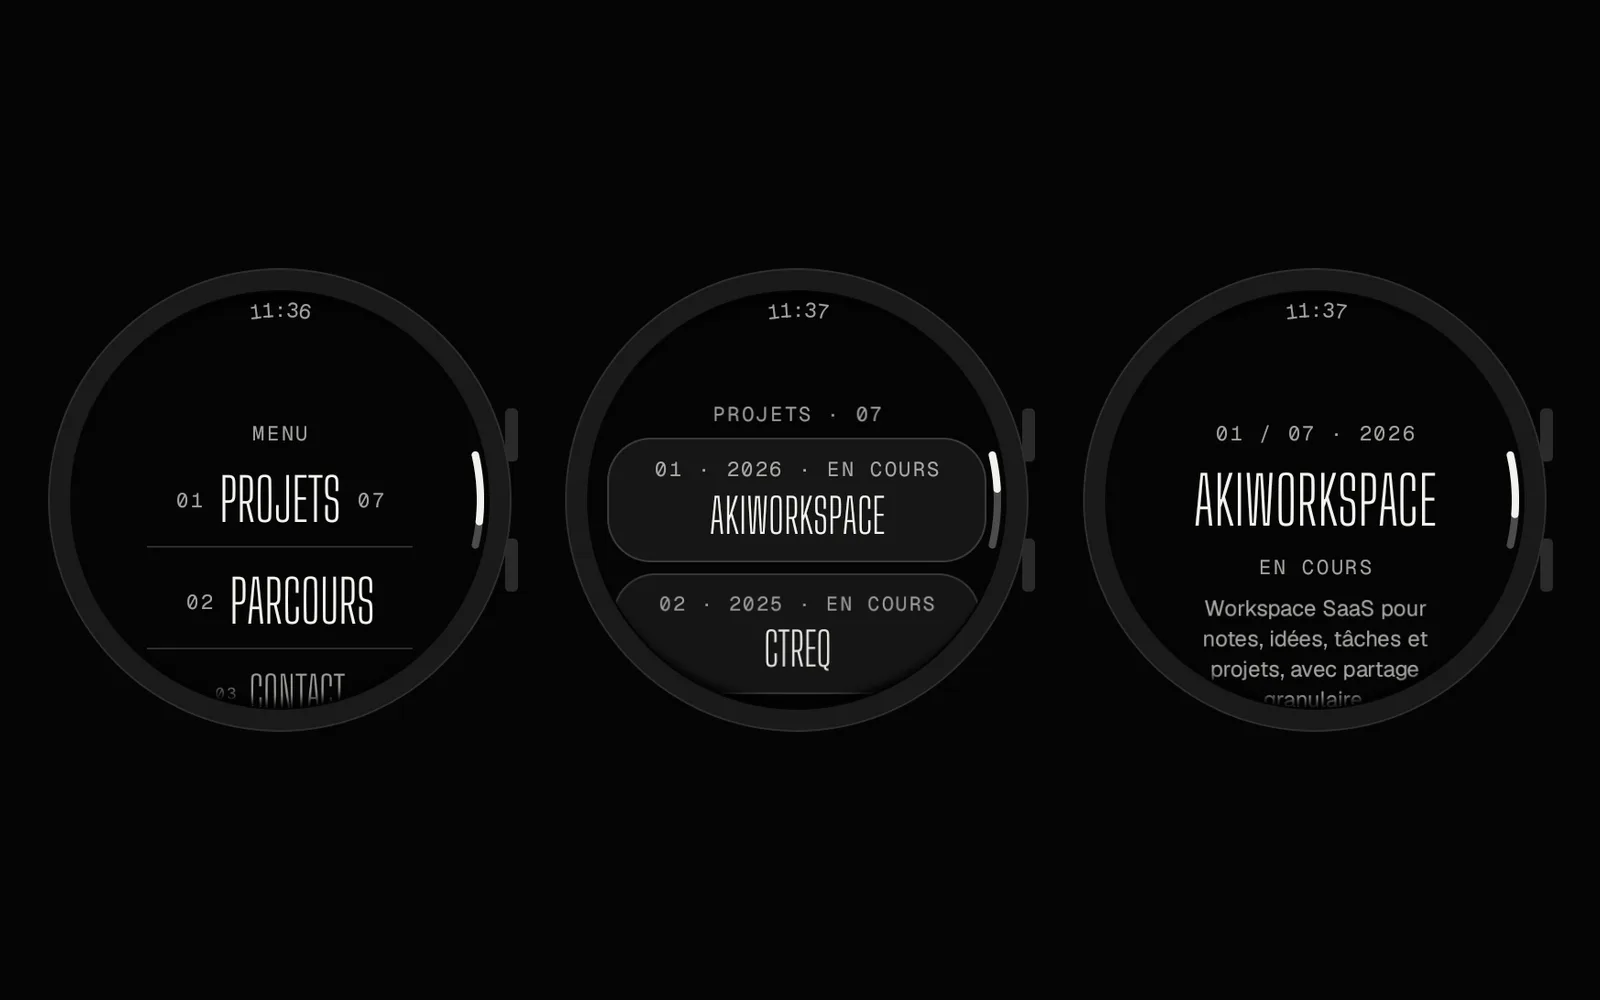
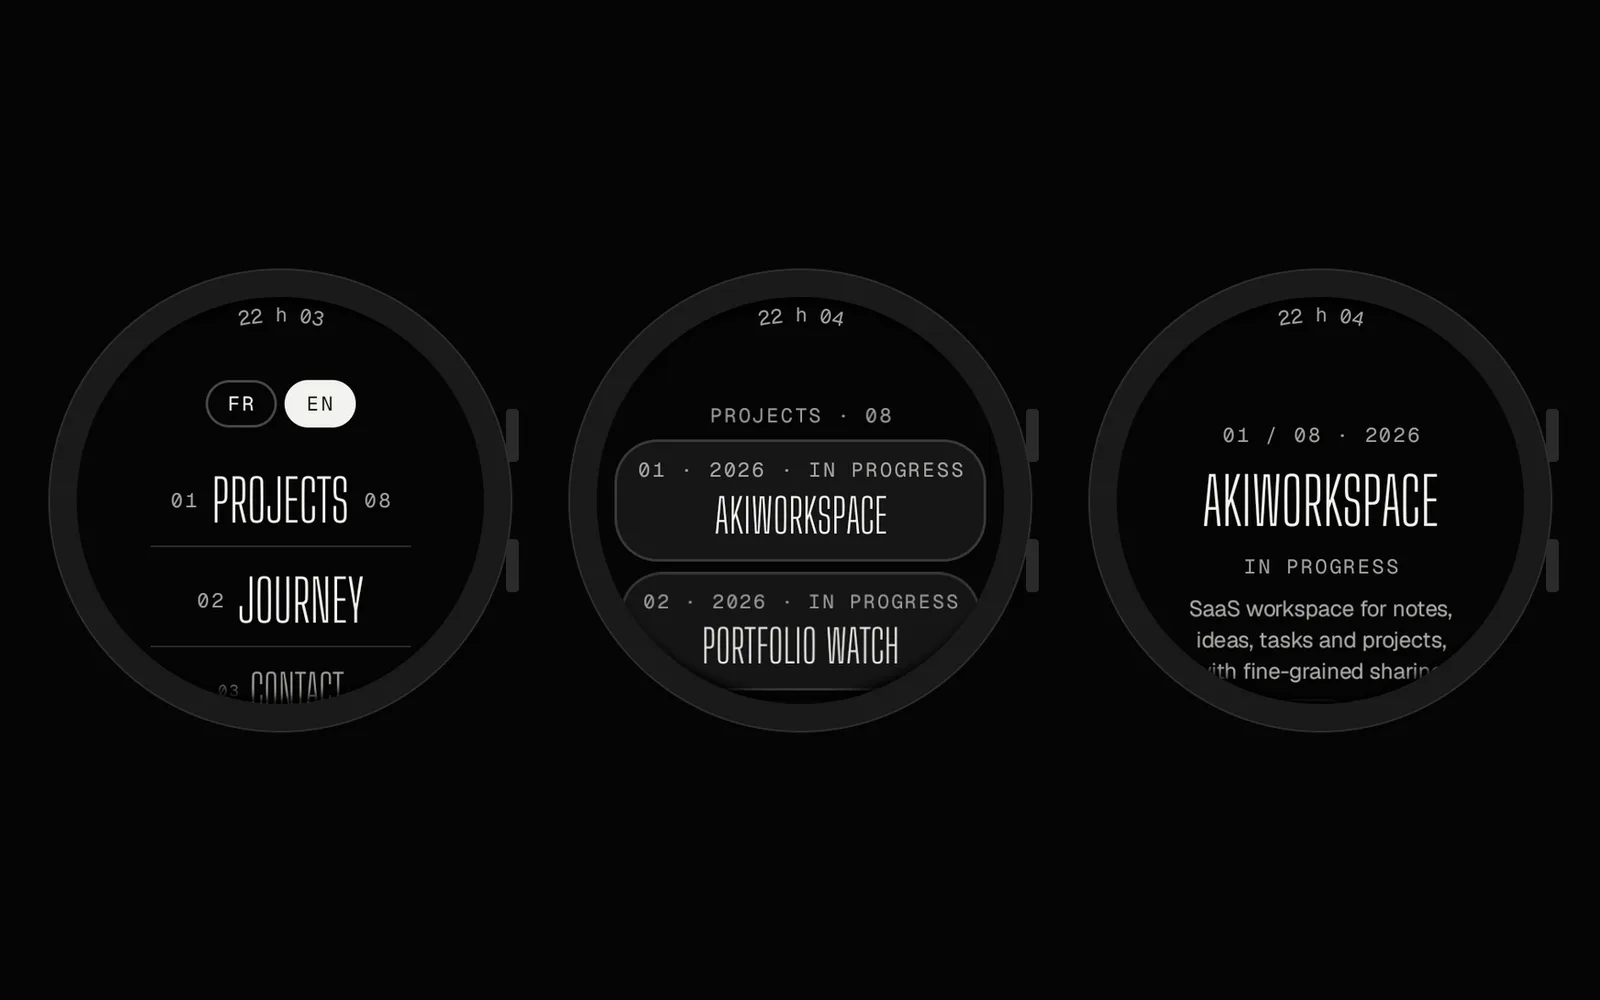
feat(projets): Portfolio Watch v0.4.0, captures de la vraie montre et textes FR/EN (#1)

diff --git a/src/data/customProjects.ts b/src/data/customProjects.ts
@@ -344,23 +344,23 @@ export const customProjects: CustomProject[] = [
     id: 'portfolio-watch',
     name: 'Portfolio Watch',
     title: 'Portfolio Watch - Version Galaxy Watch',
-    description: 'Mon portfolio repensé pour un écran rond d\'un pouce et demi : une app Wear OS en Kotlin et Jetpack Compose qui tourne sur ma Galaxy Watch. Projets, parcours et contact au poignet, en trois touches au plus.',
-    longDescription: 'Portfolio Watch adapte l\'identité du site (monochrome, éditoriale, typographie condensée) aux codes de Wear OS : heure en haut qui s\'efface au défilement, listes qui suivent la courbe de l\'écran, défilement à la lunette, retour en glissant vers la droite. La version 0.1.0 est en ligne sur GitHub et fonctionne sur une vraie Galaxy Watch : un accueil façon cadran avec l\'heure en direct, le menu, les projets, chaque étude de cas à ouvrir en entier sur le téléphone, le parcours, le contact et le jeu des étoiles du site. L\'app est autonome (aucune app compagnon) et chaque push est compilé et analysé par GitHub Actions, qui produit l\'APK. Prochaines étapes : un cadran installable, une tuile « Disponibilité », la version anglaise et la publication sur le Google Play Store.',
+    description: 'Mon portfolio repensé pour un écran rond d\'un pouce et demi : une app Wear OS en Kotlin et Jetpack Compose, installée sur ma Galaxy Watch. Projets, parcours, contact et carte de visite en QR code au poignet, en trois touches au plus.',
+    longDescription: 'Portfolio Watch adapte l\'identité du site (monochrome, éditoriale, typographie condensée) aux codes de Wear OS : heure en haut qui s\'efface au défilement, listes qui suivent la courbe de l\'écran, défilement à la lunette, retour en glissant vers la droite. La version 0.4.0 tourne sur ma Galaxy Watch : un accueil façon cadran, les huit projets du portfolio avec leurs études de cas à ouvrir sur le téléphone, le parcours, le contact, le jeu des étoiles du site et une carte de visite en QR code qu\'un téléphone scanne pour m\'ajouter à ses contacts. Une tuile Wear OS donne accès au QR, à l\'appel et à l\'e-mail en un glissement depuis le cadran, et l\'app passe du français à l\'anglais d\'un toucher. Côté ingénierie : des releases signées publiées automatiquement par GitHub Actions à chaque tag, des tests unitaires qui relisent réellement le QR, et chaque version essayée sur la vraie montre avant d\'être publiée. Prochaines étapes : un cadran installable et la publication sur le Google Play Store.',
     languages: ['Kotlin'],
-    topics: ['wear-os', 'galaxy-watch', 'kotlin', 'jetpack-compose', 'smartwatch', 'ui-design', 'android'],
+    topics: ['wear-os', 'galaxy-watch', 'kotlin', 'jetpack-compose', 'wear-os-tiles', 'qr-code', 'smartwatch', 'android'],
     image: '/assets/portfolio-watch.webp',
     codeUrl: 'https://github.com/Akiyo974/portfolio-watch',
     features: [
       'Accueil façon cadran : heure et date en direct, nom le long du bord, disponibilité, projets et kilomètres',
-      'Menu numéroté, comme la navigation du site',
-      'Les projets du portfolio avec année et statut',
-      'Études de cas résumées, à ouvrir en entier sur le téléphone associé',
-      'Parcours La Réunion → Saguenay tracé le long de la lunette',
+      'Les huit projets du portfolio, chaque étude de cas à ouvrir en entier sur le téléphone associé',
+      'Carte de visite en QR code (vCard) : un scan ajoute mes coordonnées aux contacts, même montre en veille',
+      'Tuile Wear OS : disponibilité, QR, appel et e-mail en un glissement depuis le cadran',
+      'Français et anglais, avec un sélecteur FR / EN mémorisé',
+      'Parcours La Réunion → Saguenay tracé comme une trajectoire de vol',
       'Contact en un toucher : e-mail, appel, LinkedIn, GitHub',
       'Jeu des étoiles du site : 20 s, vibration à chaque touche, record gardé sur la montre',
-      'Navigation Wear OS : glisser pour revenir, défilement à la lunette',
       'App autonome, sans app compagnon sur le téléphone',
-      'Build, lint et APK automatiques à chaque push (GitHub Actions)'
+      'Releases signées publiées à chaque tag ; build, tests et lint à chaque PR (GitHub Actions)'
     ],
     challenges: [
       'Faire tenir une identité éditoriale dans un cercle d\'un pouce et demi',
@@ -369,11 +369,13 @@ export const customProjects: CustomProject[] = [
       'Texte et listes qui suivent la courbe de l\'écran',
       'Cibles tactiles de 48 dp minimum',
       'Passer de la montre au téléphone sans perdre le contexte',
+      'Un QR assez gros pour être scanné sur 1,4 pouce : chaque octet de la carte compte, et les tests le vérifient',
+      'Des mises à jour qui s\'installent par-dessus sans perdre de données, grâce à une clé de signature fixe',
       'Embarquer les polices variables du site sans alourdir l\'app'
     ],
     technologies: {
-      frontend: ['Kotlin 2.1', 'Jetpack Compose for Wear OS', 'ScalingLazyColumn'],
-      tools: ['Wear Remote Interactions', 'Gradle', 'GitHub Actions', 'Wear OS 3+']
+      frontend: ['Kotlin 2.1', 'Jetpack Compose for Wear OS', 'Jetpack Tiles', 'ZXing (QR code)'],
+      tools: ['Wear Remote Interactions', 'Gradle', 'GitHub Actions', 'JUnit', 'Wear OS 3+']
     },
     year: '2026',
     status: 'in-progress',

diff --git a/src/data/caseGallery.ts b/src/data/caseGallery.ts
@@ -19,8 +19,9 @@ export const caseGallery: Record<string, { file: string; alt: { fr: string; en: 
   ],
   'portfolio-watch': [
     { file: 'portfolio-watch-01', alt: { fr: 'Portfolio en version montre : bannière du projet', en: 'Portfolio, watch edition: project banner' } },
-    { file: 'portfolio-watch-02', alt: { fr: "Menu, projets et étude de cas dans l'app réelle", en: 'Menu, projects and case study in the real app' } },
-    { file: 'portfolio-watch-03', alt: { fr: 'Parcours, contact et partie du jeu des étoiles', en: 'Journey, contact and a star game round' } },
+    { file: 'portfolio-watch-02', alt: { fr: 'Menu avec sélecteur FR / EN, liste des 8 projets et étude de cas, sur la vraie Galaxy Watch', en: 'Menu with FR / EN switch, the 8 projects and a case study, on the real Galaxy Watch' } },
+    { file: 'portfolio-watch-03', alt: { fr: 'Parcours La Réunion → Saguenay, contact et tuile Wear OS', en: 'Réunion Island → Saguenay journey, contact and Wear OS tile' } },
+    { file: 'portfolio-watch-04', alt: { fr: 'Carte de visite en QR code, jeu des étoiles et partie en cours', en: 'QR business card, star game and a round in progress' } },
   ],
   akiworkspace: [
     { file: 'akiworkspace-01', alt: { fr: "Tableau de bord d'AkiWorkspace", en: 'AkiWorkspace dashboard' } },
